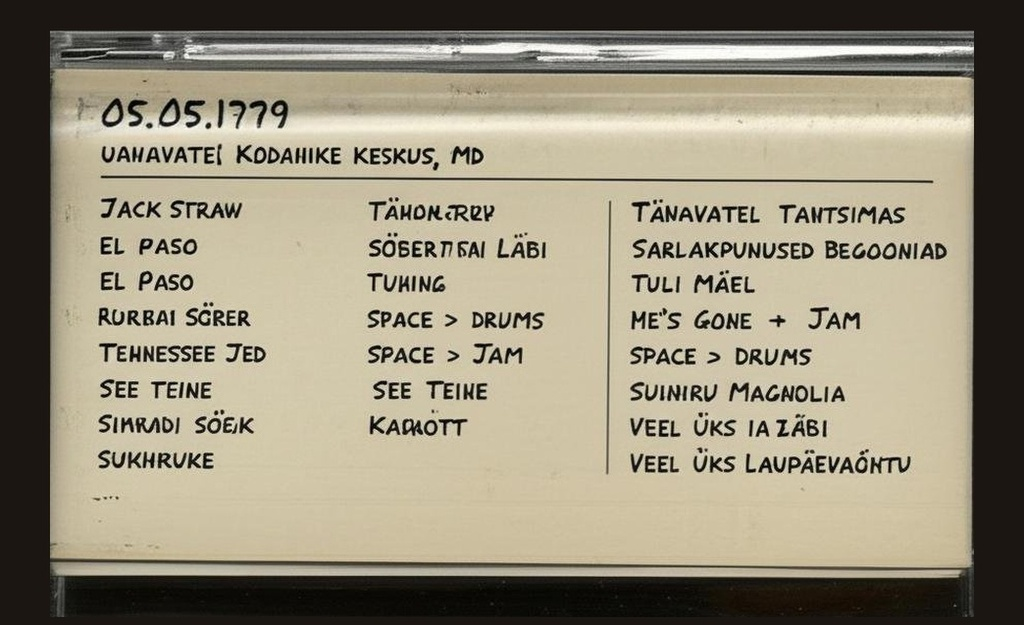
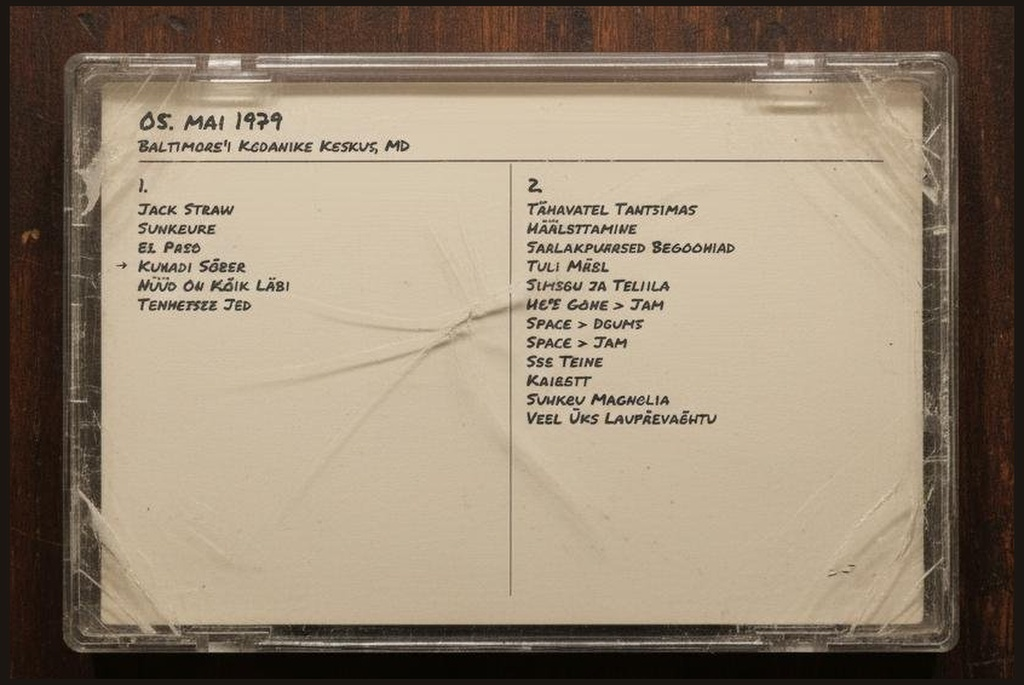
Fix: restore correct regenerated cards + trim to 1% + cache bust v4

diff --git a/redo.html b/redo.html
@@ -30,7 +30,7 @@
   <h2>Young Bettys (7 cards) — Circles Removed</h2>
 
   <div class="card">
-    <img src="www/jcards/gd69-03-02.sbd.16track.kaplan.3344.sbeok.shnf.jpg?v=3" onclick="enlarge(this)">
+    <img src="www/jcards/gd69-03-02.sbd.16track.kaplan.3344.sbeok.shnf.jpg?v=4" onclick="enlarge(this)">
     <div class="card-info">
       <div class="card-date">Mar 2, 1969 — Fillmore West, San Francisco</div>
       <div class="card-issue">Was: coffee stain circle</div>
@@ -38,7 +38,7 @@
   </div>
 
   <div class="card">
-    <img src="www/jcards/gd71-04-27.sbd.murphy.2221.sbeok.shnf.jpg?v=3" onclick="enlarge(this)">
+    <img src="www/jcards/gd71-04-27.sbd.murphy.2221.sbeok.shnf.jpg?v=4" onclick="enlarge(this)">
     <div class="card-info">
       <div class="card-date">Apr 27, 1971 — Fillmore East, New York</div>
       <div class="card-issue">Was: circle</div>
@@ -46,7 +46,7 @@
   </div>
 
   <div class="card">
-    <img src="www/jcards/gd1971-04-28.sbd.miller.106099.flac16.jpg?v=3" onclick="enlarge(this)">
+    <img src="www/jcards/gd1971-04-28.sbd.miller.106099.flac16.jpg?v=4" onclick="enlarge(this)">
     <div class="card-info">
       <div class="card-date">Apr 28, 1971 — Fillmore East, New York</div>
       <div class="card-issue">Was: circle (took 3 tries — Gemini kept drawing tape reels)</div>
@@ -54,7 +54,7 @@
   </div>
 
   <div class="card">
-    <img src="www/jcards/gd1972-03-23.sbd.miller.100000.sbeok.flac16.jpg?v=3" onclick="enlarge(this)">
+    <img src="www/jcards/gd1972-03-23.sbd.miller.100000.sbeok.flac16.jpg?v=4" onclick="enlarge(this)">
     <div class="card-info">
       <div class="card-date">Mar 23, 1972 — Academy of Music, New York</div>
       <div class="card-issue">Was: circle</div>
@@ -62,7 +62,7 @@
   </div>
 
   <div class="card">
-    <img src="www/jcards/gd1972-04-08.sbd.miller.83714.sbeok.flac16.jpg?v=3" onclick="enlarge(this)">
+    <img src="www/jcards/gd1972-04-08.sbd.miller.83714.sbeok.flac16.jpg?v=4" onclick="enlarge(this)">
     <div class="card-info">
       <div class="card-date">Apr 8, 1972 — Wembley Empire Pool, London</div>
       <div class="card-issue">Was: circle</div>
@@ -70,7 +70,7 @@
   </div>
 
   <div class="card">
-    <img src="www/jcards/gd1972-08-25.sbd.miller.92840.sbeok.flac16.jpg?v=3" onclick="enlarge(this)">
+    <img src="www/jcards/gd1972-08-25.sbd.miller.92840.sbeok.flac16.jpg?v=4" onclick="enlarge(this)">
     <div class="card-info">
       <div class="card-date">Aug 25, 1972 — Berkeley Community Theatre</div>
       <div class="card-issue">Was: circles (plural)</div>
@@ -78,7 +78,7 @@
   </div>
 
   <div class="card">
-    <img src="www/jcards/gd72-09-21.sbd.masse.7296.sbeok.shnf.jpg?v=3" onclick="enlarge(this)">
+    <img src="www/jcards/gd72-09-21.sbd.masse.7296.sbeok.shnf.jpg?v=4" onclick="enlarge(this)">
     <div class="card-info">
       <div class="card-date">Sep 21, 1972 — The Spectrum, Philadelphia</div>
       <div class="card-issue">Was: circle</div>
@@ -90,7 +90,7 @@
   <h2>New Animal (4 cards) — Estonian Fixed, Overflow Fixed</h2>
 
   <div class="card">
-    <img src="www/jcards/gd1979-05-05.sbd.miller.fishmanj-repitch.78748.flac16.jpg?v=3" onclick="enlarge(this)">
+    <img src="www/jcards/gd1979-05-05.sbd.miller.fishmanj-repitch.78748.flac16.jpg?v=4" onclick="enlarge(this)">
     <div class="card-info">
       <div class="card-date">May 5, 1979 — Baltimore Civic Center</div>
       <div class="card-issue">Was: English text, must be Estonian</div>
@@ -98,7 +98,7 @@
   </div>
 
   <div class="card">
-    <img src="www/jcards/gd79-10-27.sbd.clugston.13980.sbeok.shnf.jpg?v=3" onclick="enlarge(this)">
+    <img src="www/jcards/gd79-10-27.sbd.clugston.13980.sbeok.shnf.jpg?v=4" onclick="enlarge(this)">
     <div class="card-info">
       <div class="card-date">Oct 27, 1979 — Cape Cod Coliseum</div>
       <div class="card-issue">Was: English text, must be Estonian</div>
@@ -106,7 +106,7 @@
   </div>
 
   <div class="card">
-    <img src="www/jcards/gd79-11-02.sbd.macdonald.7920.sbeok.shnf.jpg?v=3" onclick="enlarge(this)">
+    <img src="www/jcards/gd79-11-02.sbd.macdonald.7920.sbeok.shnf.jpg?v=4" onclick="enlarge(this)">
     <div class="card-info">
       <div class="card-date">Nov 2, 1979 — Nassau Coliseum, Uniondale</div>
       <div class="card-issue">Was: English text + wrong font</div>
@@ -114,7 +114,7 @@
   </div>
 
   <div class="card">
-    <img src="www/jcards/gd80-12-31.sbd.gorinsky.6391.sbeok.shnf.jpg?v=3" onclick="enlarge(this)">
+    <img src="www/jcards/gd80-12-31.sbd.gorinsky.6391.sbeok.shnf.jpg?v=4" onclick="enlarge(this)">
     <div class="card-info">
       <div class="card-date">Dec 31, 1980 — Oakland Auditorium Arena</div>
       <div class="card-issue">Was: text cut off (30 tracks)</div>
